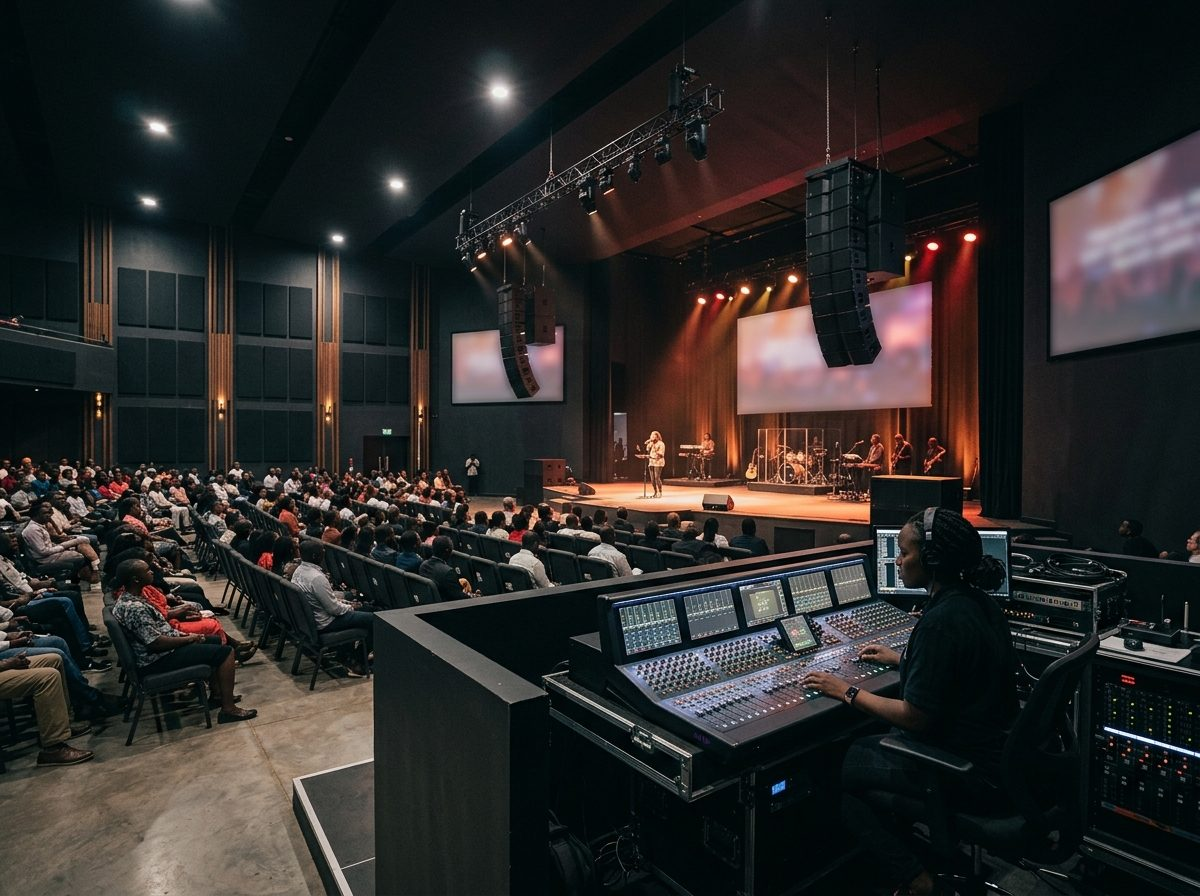
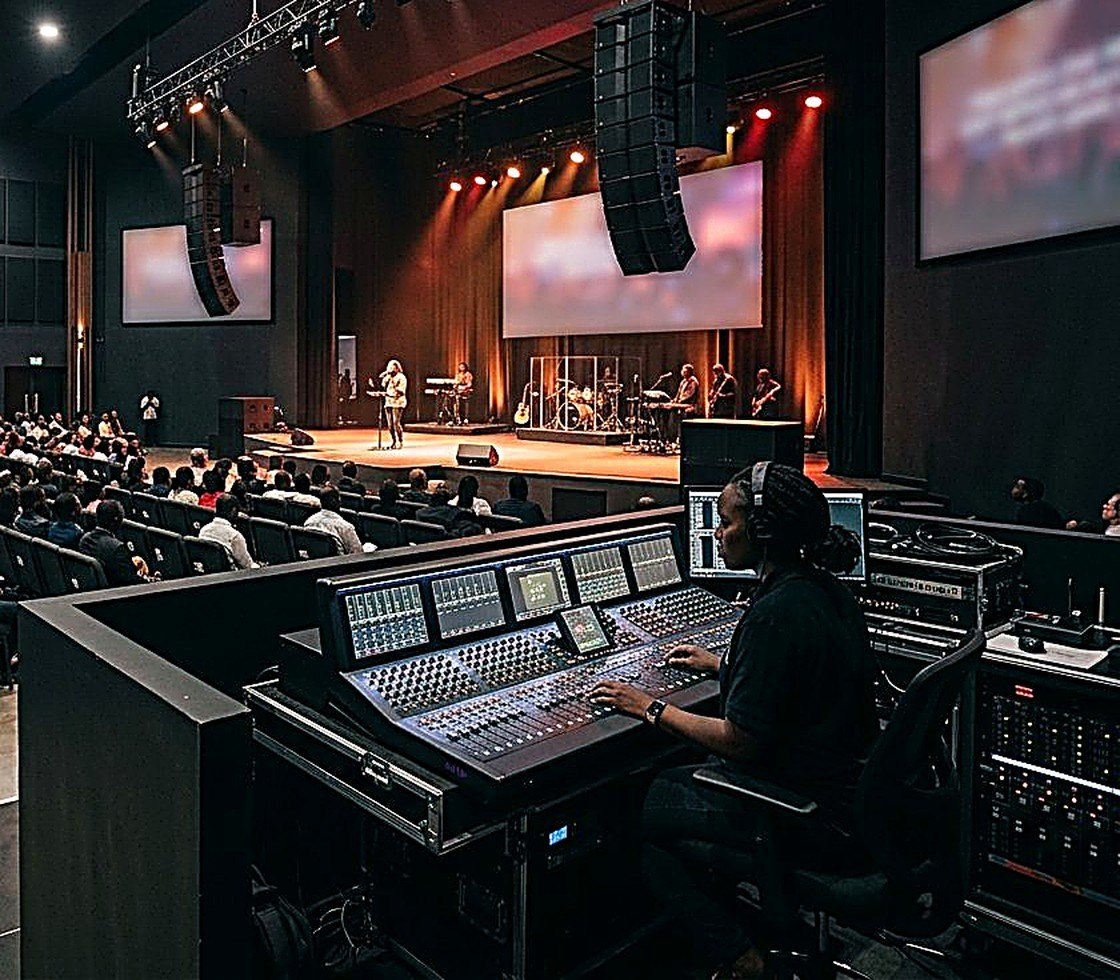
About page: sharper, better-fitted hero photo + balanced two-column layout
- Replace about-photo.jpg with a sharpened, foreground-forward crop
  (engineer at the mixing console reads crisp; less of the soft
  projection-screen area lands in the visible crop)
- main.css: balance the About hero to 1fr/1fr with align-items:stretch
  so the photo fits the text column height; responsive 1-col <=900px
- page-about.php: move hero media min-height from inline style into CSS

diff --git a/soundcreations/assets/css/main.css b/soundcreations/assets/css/main.css
@@ -1804,3 +1804,11 @@ h3 { font-size: 1.35rem; font-weight: 700; line-height: 1.22; letter-spacing: -.
 @media (max-width: 380px) {
   .sc-foot-nav { grid-template-columns: 1fr; }
 }
+
+/* --- About hero: balanced fit + clarity (v0.8.16) --- */
+.sc-about-hero .sc-journey { grid-template-columns: 1fr 1fr; align-items: stretch; }
+.sc-about-hero__media { min-height: 460px; }
+@media (max-width: 900px) {
+	.sc-about-hero .sc-journey { grid-template-columns: 1fr; }
+	.sc-about-hero__media { min-height: 300px; }
+}

diff --git a/soundcreations/page-about.php b/soundcreations/page-about.php
@@ -45,7 +45,7 @@ $sc_exp_icons = array(
 			<h1 class="sc-about-hero__title"><?php echo esc_html( sc_setting( 'about_hero_title', 'If it sounds good, it’s Sound Creations' ) ); ?></h1>
 			<p class="sc-journey__lead"><?php echo sc_rich_e( sc_setting( 'about_journey_p1', 'Founded in 2004, Sound Creations Ltd has grown into a leading provider of professional audio, visual, lighting and acoustic solutions across East Africa and beyond. What began as a specialist audio company is today a full-service integrator — designing, supplying, installing and supporting complete systems for the region’s most demanding spaces.' ) ); ?></p>
 		</div>
-		<div class="sc-about-hero__media" style="align-self:stretch;min-height:480px;background-image:url('<?php echo esc_url( $sc_about_photo ); ?>');" role="img" aria-label="<?php esc_attr_e( 'Sound Creations at work', 'soundcreations' ); ?>"></div>
+		<div class="sc-about-hero__media" style="align-self:stretch;background-image:url('<?php echo esc_url( $sc_about_photo ); ?>');" role="img" aria-label="<?php esc_attr_e( 'Sound Creations at work', 'soundcreations' ); ?>"></div>
 	</div>
 </section>
 
